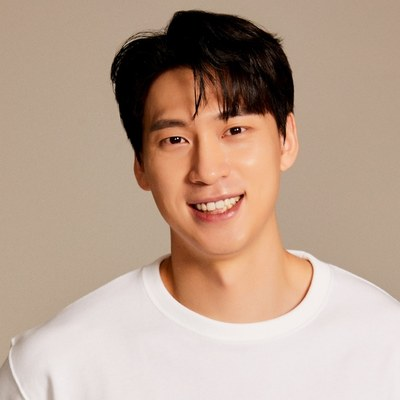
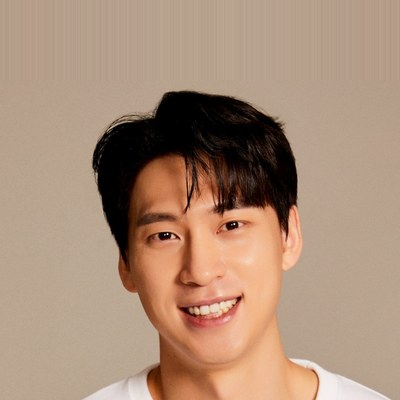
글쓴이 카드 — 프로필 얼굴 정중앙 정렬 · 소속 추가 · 보조 문구 수정
- 프로필 사진: 배경색 대비로 머리 윤곽을 측정해 중심(x=578, y=205)을 구했다.
  기존 크롭 중심은 (565, 380)이라 얼굴이 위로 치우쳐 있었다. 원본은 머리 위
  여백이 부족해 얼굴을 중앙에 두면 답답해지므로, 균일한 상단 배경(표준편차 3~5)을
  220px 복제해 확장한 뒤 얼굴 중심 기준으로 680px 정사각 크롭했다.
- 이름 옆에 'AI 피트니스 워크스페이스, 센티프 대표' 추가.
  좁은 화면에서는 이름 아래로 자연스럽게 내려간다(flex-wrap).
- 보조 문구: '피트니스 운영 인사이트를 꾸준히 전하는 사람'
  → '피트니스 산업의 인사이트를 정리합니다'
- 375px 모바일 가로 넘침 0건 확인

diff --git a/article.html b/article.html
@@ -123,7 +123,11 @@
   border-radius: var(--radius-lg); padding: 30px 30px 26px;
 }
 .aa-head { display: flex; align-items: flex-start; justify-content: space-between; gap: 20px; }
-.aa-name { font-size: 1.5rem; font-weight: 900; color: var(--black); letter-spacing: -0.03em; }
+.aa-name {
+  font-size: 1.5rem; font-weight: 900; color: var(--black); letter-spacing: -0.03em;
+  display: flex; align-items: baseline; flex-wrap: wrap; gap: 10px;
+}
+.aa-title { font-size: 13.5px; font-weight: 600; color: var(--gray-500); letter-spacing: 0; }
 .aa-role {
   display: flex; align-items: center; gap: 7px; margin-top: 9px;
   font-size: 14px; font-weight: 600; color: var(--gray-600);
@@ -345,8 +349,8 @@ function renderArticle(a, others) {
       <div class="art-author-card">
         <div class="aa-head">
           <div>
-            <div class="aa-name">정진훈</div>
-            <div class="aa-role"><span class="aa-badge">S</span> 피트니스 운영 인사이트를 꾸준히 전하는 사람</div>
+            <div class="aa-name">정진훈 <span class="aa-title">AI 피트니스 워크스페이스, 센티프 대표</span></div>
+            <div class="aa-role"><span class="aa-badge">S</span> 피트니스 산업의 인사이트를 정리합니다</div>
           </div>
           <a class="aa-photo" href="${AUTHOR_URL}" target="_blank" rel="noopener">
             <img src="assets/profile/jinhun.jpg" alt="정진훈 프로필 사진">
